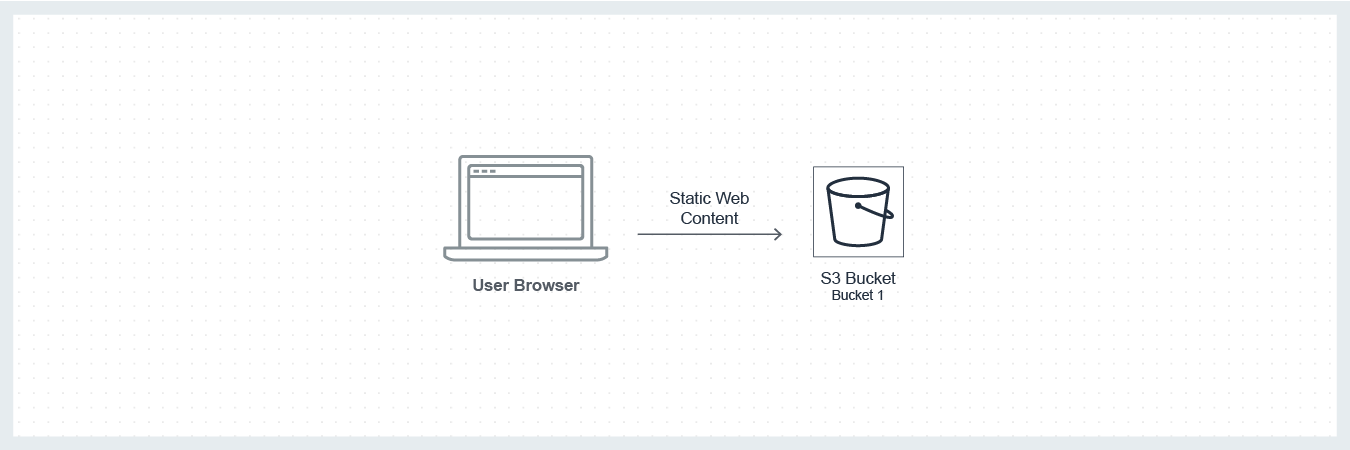
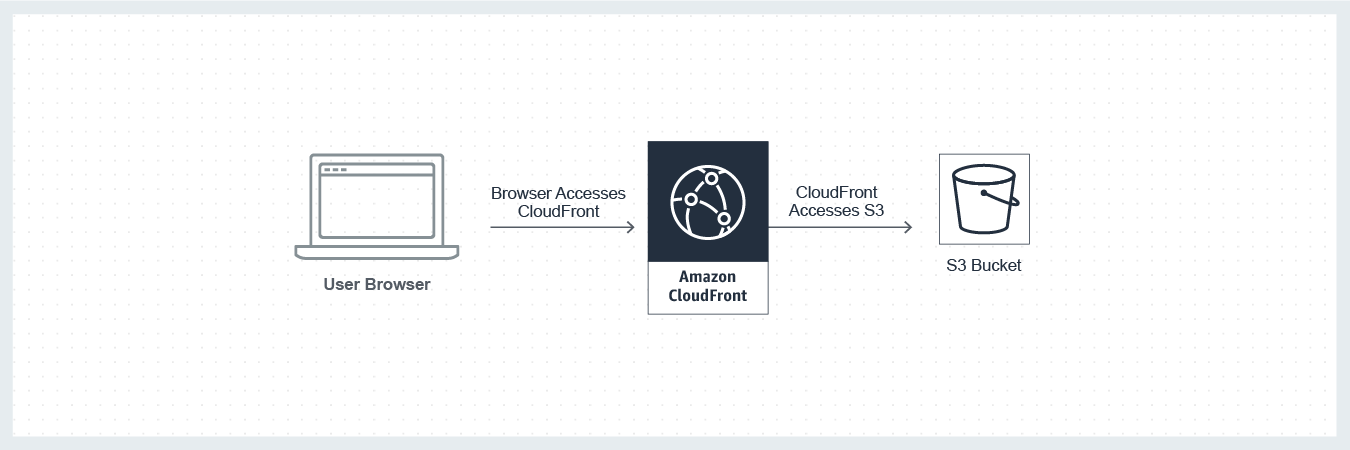
Added Amazon CloudFront

diff --git a/module-1/README.md b/module-1/README.md
@@ -6,9 +6,10 @@
 
 **Services used:**
 * [AWS Cloud9](https://aws.amazon.com/cloud9/)
+* [Amazon CloudFront](https://aws.amazon.com/cloudfront/)
 * [Amazon Simple Storage Service (S3)](https://aws.amazon.com/s3/)
 
-In this module, follow the instructions to create your cloud-based IDE on [AWS Cloud9](https://aws.amazon.com/cloud9/) and deploy the first version of the static Mythical Mysfits website.  [Amazon S3](https://aws.amazon.com/s3/) is a highly durable, highly available, and inexpensive object storage service that can serve stored objects directly via HTTP. This makes it wonderfully useful for serving static web content (html, js, css, media content, etc.) directly to web browsers for sites on the Internet.  We will utilize S3 to host the content for our Mythical Mysfits website.
+In this module, follow the instructions to create your cloud-based IDE on [AWS Cloud9](https://aws.amazon.com/cloud9/) and deploy the first version of the static Mythical Mysfits website. The content will be served from Amazon CloudFront content delivery service, with the source stored in [Amazon S3](https://aws.amazon.com/s3/). This combination allows highly scalable and secure serving in CloudFront, while S3 storage provides a highly durable, highly available, and inexpensive object storage service. This makes it wonderfully useful for serving static web content (html, js, css, media content, etc.) directly to web browsers for sites on the Internet.
 
 ### Getting Started
 
@@ -69,41 +70,62 @@ In the terminal, change directory to the newly cloned repository directory:
 cd aws-modern-application-workshop
 ```
 
-### Creating a Static Website in Amazon S3
+### Creating a Website with Amazon CloudFront and Amazon S3
 
-#### Create an S3 Bucket and Configure it for Website Hosting
-Next, we will create the infrastructure components needed for hosting a static website in Amazon S3 via the [AWS CLI](https://aws.amazon.com/cli/).
+#### Create an S3 Bucket for Storing Content
+Next, we will create the infrastructure components needed for storing static website in Amazon S3 via the ![AWS CLI](https://aws.amazon.com/cli/). If you do not already have the AWS CLI configured see ![getting started](http://docs.aws.amazon.com/cli/latest/userguide/)
 
-**Note: This workshop uses placeholders for names that you must supply. These placeholders use the prefix `REPLACE_ME_` to make them easy to find using CTRL-F on Windows or ⌘-F on Mac.**
-
-First, create an [S3 bucket](https://docs.aws.amazon.com/AmazonS3/latest/dev/UsingBucket.html), replace *REPLACE_ME_BUCKET_NAME* with your own unique bucket name, as described in [requirements for bucket names](https://docs.aws.amazon.com/AmazonS3/latest/dev/BucketRestrictions.html#bucketnamingrules).** Copy the name you choose and save it for later, as you will use it in several other places during this workshop:
+First, create an S3 bucket, replace the name below (mythical-mysfits-bucket-name) with your own unique bucket name.  Copy the name you choose and save it for later, as you will use it in several other places during this workshop:
 
 ```
-aws s3 mb s3://REPLACE_ME_BUCKET_NAME
-```
-
-Now that we have created a bucket, we need to set some configuration options that enable the bucket to be used for [static website hosting](https://docs.aws.amazon.com/AmazonS3/latest/dev/WebsiteHosting.html).  This configuration enables the objects in the bucket to be requested using a registered public DNS name for the bucket, as well as direct site requests to the base path of the DNS name to a selected website homepage (index.html in most cases):
-
-```
-aws s3 website s3://REPLACE_ME_BUCKET_NAME --index-document index.html
+aws s3 mb s3://mythical-mysfits-bucket-name
 ```
 
 #### Update the S3 Bucket Policy
 
-All buckets created in Amazon S3 are fully private by default.  In order to be used as a public website, we need to create an S3 [Bucket Policy](https://docs.aws.amazon.com/AmazonS3/latest/dev/example-bucket-policies.html) that indicates objects stored within this new bucket may be publicly accessed by anyone. Bucket policies are represented as JSON documents that define the S3 *Actions* (S3 API calls) that are allowed (or not not allowed) to be performed by different *Principals* (in our case the public, or anyone).
+All buckets created in Amazon S3 are fully private by default.  In order to be used as a website accessible only through CloudFront, we need to create an S3 [Bucket Policy](https://docs.aws.amazon.com/AmazonS3/latest/dev/example-bucket-policies.html) that indicates objects stored within this new bucket may be accessed by a CloudFront origin access identity that we also create. Bucket policies are represented as JSON documents that define the S3 *Actions* (S3 API calls) that are allowed (or explicitly denied) to be performed by different *Principals* (in our case the CloudFront service).
 
-The JSON document for the necessary bucket policy is located at: `~/environment/aws-modern-application-workshop/module-1/aws-cli/website-bucket-policy.json`.  This file contains a string that needs to be replaced with the bucket name you've chosen (indicated with `REPLACE_ME_BUCKET_NAME`).  
+First we need to create a CloudFront Access Identity using the following CLI command.
 
-To **open a file** in Cloud9, use the File Explorer on the left panel and double click `website-bucket-policy.json`:
+```
+aws cloudfront create-cloud-front-origin-access-identity --cloud-front-origin-access-identity-config CallerReference=Mysfits,Comment=Mysfits
+```
 
-![bucket-policy-image.png](/images/module-1/bucket-policy-image.png)
+Record the **Id** from the output as we will need to update the bucket policy with this.
 
-This will open `bucket-policy.json` in the File Editor panel.  Replace the string shown with your chosen bucket name used in the previous commands:
+```
+{
+    "CloudFrontOriginAccessIdentity": {
+        "CloudFrontOriginAccessIdentityConfig": {
+            "Comment": "Mysfits", 
+            "CallerReference": "Mysfits"
+        }, 
[1 lines of base64/hex data omitted]
+        "Id": "ABCAJ2UCCR6DPCEXAMPLE"
+    }, 
+    "ETag": "ANPAJ2UCCR6DPCEXAMPLE", 
+    "Location": "https://cloudfront.amazonaws.com/2017-10-30/origin-access-identity/cloudfront/ANPAJ2UCCR6DPCEXAMPLE"
+}
+
+```
+
+The JSON document for the necessary bucket policy is located at: `~/environment/aws-modern-application-workshop/module-1/aws-cli/website-bucket-policy.json`.  This file contains two strings that need to be replaced, the Id (indicated with `REPLACE_ME_ID`), and the bucket name you've chosen (indicated with `REPLACE_ME_BUCKET_NAME`).  
+
+**Note: Throughout this workshop you will be similarly opening files that have contents which need to be replaced (all will be prefixed with `REPLACE_ME_`, to make them easy to find using CTRL-F on Windows or ⌘-F on Mac.)**
+
+To **open a file** in Cloud9, use the File Explorer on the left panel and double click `bucket-policy.json`:
+
+![bucket-policy-image.png](/images/module-1/bucket-policy.png)
+
+This will open `bucket-policy.json` in the File Editor panel.  Replace the string shown on both lines 9 and 12 with your Id and chosen bucket name used in the previous commands:
 
 ![replace-bucket-name.png](/images/module-1/replace-bucket-name.png)
 
+In Cloud9, open the `website-cloudfront-distribution.json` file and edit the bucket name on line 12 and the Id on line 14:
 
-Execute the following CLI command to add a public bucket policy to your website:
+![bucket-policy-image.png](/images/module-1/cloudfront-distribution.png)
+
+Execute the following CLI command to add a public bucket policy to allow CloudFront:
 
 ```
 aws s3api put-bucket-policy --bucket REPLACE_ME_BUCKET_NAME --policy file://~/environment/aws-modern-application-workshop/module-1/aws-cli/website-bucket-policy.json
@@ -111,25 +133,38 @@ aws s3api put-bucket-policy --bucket REPLACE_ME_BUCKET_NAME --policy file://~/en
 
 #### Publish the Website Content to S3
 
-Now that our new website bucket is configured appropriately, let's add the first iteration of the Mythical Mysfits homepage to the bucket.  Use the following S3 CLI command that mimics the linux command for copying files (**cp**) to copy the provided index.html page locally from your IDE up to the new S3 bucket (replacing the bucket name appropriately).
+Now that our S3 bucket is created, let's add the first iteration of the Mythical Mysfits homepage to the bucket.  Use the following S3 CLI command that mimics the linux command for copying files (**cp**) to copy the provided index.html page locally from your IDE up to the new S3 bucket (replacing the bucket name appropriately).
 
 ```
 aws s3 cp ~/environment/aws-modern-application-workshop/module-1/web/index.html s3://REPLACE_ME_BUCKET_NAME/index.html
 ```
 
-Now, open up your favorite web browser and enter one of the below URIs into the address bar.  One of the below URIs contains a '.' before the region name, and the other a '-'. Which you should use depends on the region you're using.
+#### Create CloudFront Distribution
 
-The string to replace **REPLACE_ME_YOUR_REGION** should match whichever region you created the S3 bucket within (eg: us-east-1):
+Using the AWS CLI, we will create a CloudFront distribution, and configure the S3 bucket as the origin. The JSON document for the necessary CloudFront configuration is located at: `~/environment/aws-modern-application-workshop/module-1/aws-cli/website-cloudfront-distribution.json`.  This file contains two strings that need to be replaced, the Id (indicated with `REPLACE_ME_ID`), and the bucket name you've chosen (indicated with `REPLACE_ME_BUCKET_NAME`).  
 
-For us-east-1 (N. Virginia), us-west-2 (Oregon), eu-west-1 (Ireland) use:
 ```
-http://REPLACE_ME_BUCKET_NAME.s3-website-REPLACE_ME_YOUR_REGION.amazonaws.com
+aws cloudfront create-distribution --distribution-config file://~/environment/aws-modern-application-workshop/module-1/aws-cli/website-cloudfront-distribution.json
 ```
 
-For us-east-2 (Ohio) use:
+  * If this was a web site used for more than just testing you should enable logging, and consider the AWS Web Application Firewall (WAF) service to help protect. For more information on the other configuration options, see [Values That You Specify When You Create or Update a Web Distribution](https://docs.aws.amazon.com/AmazonCloudFront/latest/DeveloperGuide/distribution-web-values-specify.html) in the CloudFront documentation.
+
+
+5. You can check on the status of the CloudFront distribution by using the CLI command:
 ```
-http://REPLACE_ME_BUCKET_NAME.s3-website.REPLACE_ME_YOUR_REGION.amazonaws.com
+aws cloudfront list-distributions
 ```
+Note the `DomainName` as that will be your web site. After CloudFront creates your distribution, the value of `Status` will change from In Progress to Deployed.
+For more information, see [Testing a Web Distribution](https://docs.aws.amazon.com/AmazonCloudFront/latest/DeveloperGuide/distribution-web-testing.html) in the CloudFront documentation.
+
+
+6. You have now configured Amazon CloudFront with basic settings and S3 as origin.
+
+For more information on configuring CloudFront, see [Viewing and Updating CloudFront Distributions](https://docs.aws.amazon.com/AmazonCloudFront/latest/DeveloperGuide/HowToUpdateDistribution.html) in the CloudFront documentation.
+
+#### Test Website
+
+Now, it can take some time e.g. 15 to 30 minutes for your newly created S3 bucket to be accessible by CloudFront, as it is a global network of 100+ edge locations. Open up your favorite web browser and enter the **Domain Name** from the CloudFront console, it will be a series of characters and end in cloudfront.net. If you get an error and/or redirect to the S3 bucket wait some more time.
 
 ![mysfits-welcome](/images/module-1/mysfits-welcome.png)
 

diff --git a/README.md b/README.md
@@ -22,7 +22,7 @@ Please be sure to terminate all of the resources created during this workshop to
 
 ![Application Architecture](/images/arch-diagram.png)
 
-The Mythical Mysfits website serves it's static content directly from Amazon S3, provides a microservice API backend deployed as a container through AWS Fargate on Amazon ECS, stores data in a managed NoSQL database provided by Amazon DynamoDB, with authentication and authorization for the application enabled through AWS API Gateway and it's integration with Amazon Cognito.  The user website clicks will be sent as records to an Amazon Kinesis Firehose Delivery stream where those records will be processed by serverless AWS Lambda functions and then stored in Amazon S3.
+The Mythical Mysfits website serves it's static content from Amazon S3 with Amazon CloudFront, provides a microservice API backend deployed as a container through AWS Fargate on Amazon ECS, stores data in a managed NoSQL database provided by Amazon DynamoDB, with authentication and authorization for the application enabled through AWS API Gateway and it's integration with Amazon Cognito.  The user website clicks will be sent as records to an Amazon Kinesis Firehose Delivery stream where those records will be processed by serverless AWS Lambda functions and then stored in Amazon S3.
 
 You will be creating and deploying changes to this application completely programmatically. You will use the AWS Command Line Interface to execute commands that create the required infrastructure components, which includes a fully managed CI/CD stack utilizing AWS CodeCommit, CodeBuild, and CodePipeline.  Finally, you will complete the development tasks required all within your own browser by leveraging the cloud-based IDE, AWS Cloud9.
 
@@ -55,6 +55,7 @@ To remove all of the created resources, you can visit the following AWS Consoles
 * [Amazon VPC](https://console.aws.amazon.com/vpc/home)
 * [AWS IAM](https://console.aws.amazon.com/iam/home)
 * [AWS CloudFormation](https://console.aws.amazon.com/cloudformation/home)
+* [Amazon CloudFront](https://console.aws.amazon.com/cloudfront/home)
 
 
 [Proceed to Module 1](/module-1)
